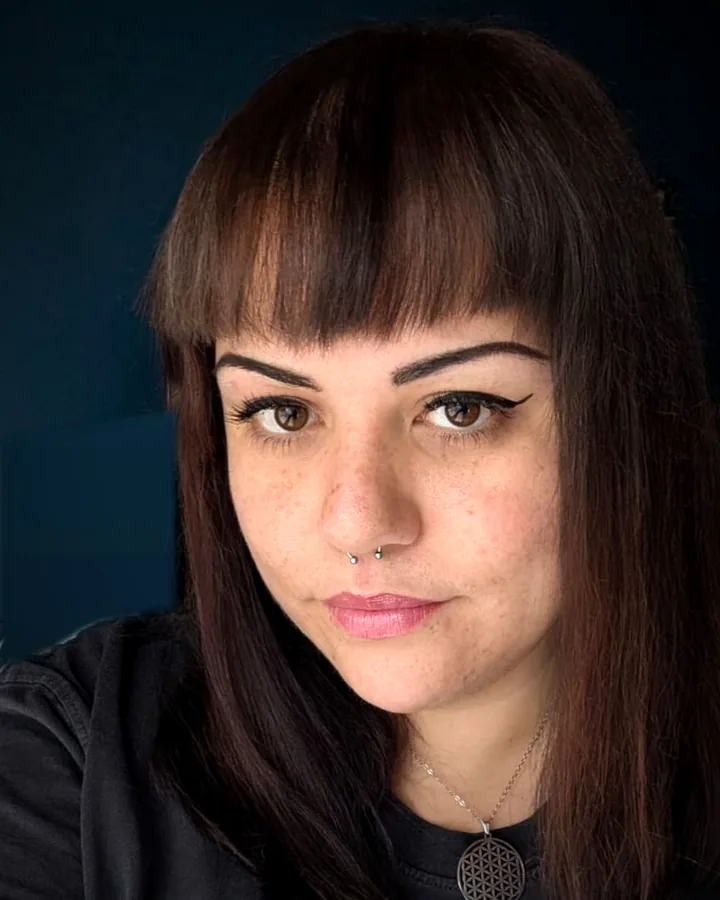
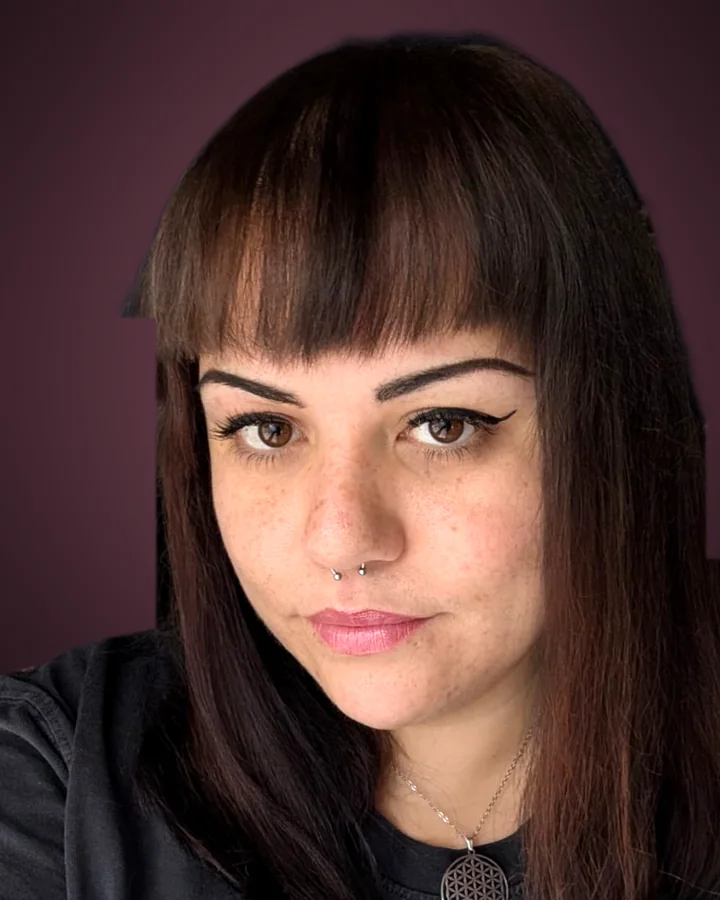
Portrait studio, plus de zone de déplacement, FAQ et textes retouchés
- Portrait détouré sur fond prune uni (bureau, box et écran retirés)
- Plus aucune mention de zone de déplacement ni de clients « partout » : « basée à Mulhouse, en Alsace » ;
  carte de l'Alsace sans trajets, pied de page et contact simplifiés
- « Bonjour » au lieu de « Salü » ; plus de « premier échange gratuit » ; accroche du hero retirée
- FAQ : « Si je refais mon site, est-ce que je vais perdre mes données ? » → non ; question « où » retirée
- Raison « Vous suivez l'avancement » à la place de « Basée à Mulhouse »

diff --git a/app/data/site.ts b/app/data/site.ts
@@ -123,8 +123,8 @@ export const reasons = [
     d: 'Le site, le nom de domaine et les contenus sont à vous. Et si vous voulez changer vos textes ou vos photos vous-même, je vous prévois un espace pour ça.',
   },
   {
-    t: 'Basée à Mulhouse',
-    d: 'Je me déplace en Alsace pour rencontrer mes clients. Pour ceux qui sont plus loin, en France ou ailleurs, on travaille en visio.',
+    t: 'Vous suivez l’avancement',
+    d: 'Je vous montre le site au fur et à mesure. Vous savez toujours où on en est, et vous pouvez réagir à chaque étape.',
   },
   {
     t: 'Je réponds vite',
@@ -133,7 +133,7 @@ export const reasons = [
 ]
 
 export const steps = [
-  { t: 'On se rencontre', d: 'On prend une demi-heure pour parler de votre activité et de ce que vous attendez. Chez vous si vous êtes en Alsace, sinon en visio. C’est gratuit.' },
+  { t: 'On se rencontre', d: 'On prend une demi-heure pour parler de votre activité et de ce que vous attendez. En rendez-vous ou en visio.' },
   { t: 'Je vous envoie une proposition', d: 'Avec le détail de ce que je vais faire, le délai et le prix. Si quelque chose ne vous convient pas, on en discute.' },
   { t: 'Je construis le site', d: 'Je vous montre l’avancement au fur et à mesure. Vous me dites ce qui vous plaît ou non, et j’ajuste.' },
   { t: 'Mise en ligne', d: 'Je mets le site en ligne et je vous montre comment vous en servir. Ensuite, je reste joignable.' },
@@ -144,11 +144,11 @@ export interface Faq { q: string, a: string }
 export const faq: Faq[] = [
   {
     q: 'Combien coûte un site internet ?',
-    a: 'Tout dépend du projet : un site vitrine de quelques pages n’a rien à voir avec une boutique en ligne. Après un premier échange gratuit, je vous envoie un devis détaillé : vous savez exactement ce que vous payez, et pourquoi.',
+    a: 'Tout dépend du projet : un site vitrine de quelques pages n’a rien à voir avec une boutique en ligne. Après un premier échange, je vous envoie une proposition détaillée : vous savez exactement ce que vous payez, et pourquoi.',
   },
   {
     q: 'Votre audit est-il vraiment gratuit ?',
-    a: 'Oui, et sans engagement. Que vous ayez un site, un logiciel ou pas encore de site, on fait le point et on vous remet un compte rendu clair avec les priorités. Vous en faites ce que vous voulez, avec moi ou sans moi.',
+    a: 'Oui, et sans engagement. Que vous ayez un site, un logiciel ou pas encore de site, on fait le point et on vous remet un compte rendu clair avec les priorités.',
   },
   {
     q: 'Combien de temps faut-il pour créer mon site ?',
@@ -163,12 +163,8 @@ export const faq: Faq[] = [
     a: 'Le référencement est pensé dès la conception : site rapide, adapté au téléphone, textes et titres travaillés, informations structurées pour Google. Pour une refonte, les anciennes adresses sont redirigées pour ne pas perdre vos positions.',
   },
   {
-    q: 'Je suis sur Wix ou Shopify, est-ce que je peux changer ?',
-    a: 'Oui. Je reprends vos contenus, je m’occupe du nom de domaine et des redirections pour garder votre référencement, et vous ne payez plus d’abonnement inutile.',
-  },
-  {
-    q: 'Vous travaillez avec qui, et où ?',
-    a: 'Avec des entreprises de partout : en Alsace, ailleurs en France et à l’étranger. Je suis basée à Mulhouse et, en Alsace, je me déplace volontiers pour parler de votre projet (Mulhouse, Colmar, Strasbourg, Guebwiller, Saint-Louis, Thann, Altkirch, Sélestat…). Partout ailleurs, tout se fait très bien à distance, en visio.',
+    q: 'Si je refais mon site, est-ce que je vais perdre mes données ?',
+    a: 'Non. Je récupère vos contenus (textes, photos, produits…) et je redirige les adresses de votre site actuel vers les nouvelles pages, pour que vous gardiez aussi votre place sur Google. Ça vaut aussi si vous êtes sur Wix ou Shopify.',
   },
   {
     q: 'Et une fois le site en ligne ?',
@@ -195,7 +191,7 @@ export const audit = {
     'Un compte rendu clair, sans jargon',
     'Les 3 à 5 priorités, classées par impact',
     'Ce que vous pouvez faire vous-même, tout de suite',
-    'Aucun engagement : vous en faites ce que vous voulez',
+    'Aucun engagement de votre part',
   ],
 }
 

diff --git a/app/pages/index.vue b/app/pages/index.vue
@@ -5,7 +5,7 @@ import portrait from '~/assets/img/portrait.webp'
 
 usePageSeo({
   title: 'Agence web freelance en Alsace | Alexandra Porhansl, Mulhouse',
-  description: 'Agence web freelance à Mulhouse : sites vitrines, boutiques en ligne, référencement (SEO) et refontes, en Alsace et à distance partout. Audit gratuit.',
+  description: 'Agence web freelance à Mulhouse, en Alsace : sites vitrines, boutiques en ligne, référencement (SEO), refontes et outils sur mesure. Audit gratuit.',
   path: '/',
 })
 
@@ -18,7 +18,6 @@ const ticker = ['Site vitrine', 'Boutique en ligne', 'Référencement naturel (S
     <!-- HERO -->
     <section class="hero wrap" aria-labelledby="hero-title">
       <div class="hero-txt">
-        <p class="eyebrow rise">Basée à Mulhouse · clients partout</p>
         <h1 id="hero-title" class="hero-h1 rise d1">
           Agence web<br>freelance <em>en&nbsp;Alsace.</em>
         </h1>
@@ -28,7 +27,6 @@ const ticker = ['Site vitrine', 'Boutique en ligne', 'Référencement naturel (S
         </p>
         <p class="hero-lead rise d2">
           Du premier échange à la mise en ligne, vous avez une seule interlocutrice&nbsp;: moi, Alexandra.
-          Je me déplace chez vous en Alsace, et je travaille à distance avec des clients partout ailleurs.
         </p>
         <div class="hero-ctas rise d3">
           <NuxtLink to="/audit-gratuit" class="btn">Audit gratuit <span class="arr" aria-hidden="true">→</span></NuxtLink>
@@ -36,7 +34,7 @@ const ticker = ['Site vitrine', 'Boutique en ligne', 'Référencement naturel (S
         </div>
         <ul class="hero-trust rise d4">
           <li>Audit offert</li>
-          <li>En Alsace et à distance</li>
+          <li>Basée à Mulhouse</li>
           <li>Réponse sous 24 h</li>
         </ul>
       </div>
@@ -148,12 +146,10 @@ const ticker = ['Site vitrine', 'Boutique en ligne', 'Référencement naturel (S
     <section class="section zone-sec" aria-labelledby="zone-title">
       <div class="wrap zone">
         <div class="zone-txt" data-reveal>
-          <p class="eyebrow">Où je travaille</p>
+          <p class="eyebrow">Où me trouver</p>
           <h2 id="zone-title" class="h2">Je suis basée à Mulhouse</h2>
           <p class="lead">
-            Je me déplace volontiers en Alsace pour rencontrer mes clients, de Saint-Louis à Haguenau, en passant
-            par Colmar et Strasbourg. Pour les clients plus loin, en France ou à l’étranger, on fait tout en visio,
-            et ça marche très bien.
+            Mon agence est installée à Mulhouse, dans le sud de l’Alsace, entre les Vosges et le Rhin.
           </p>
         </div>
         <div class="zone-map" data-reveal>
@@ -169,7 +165,7 @@ const ticker = ['Site vitrine', 'Boutique en ligne', 'Référencement naturel (S
       </div>
       <div class="about-txt" data-reveal>
         <p class="eyebrow">Qui suis-je</p>
-        <h2 id="about-title" class="h2">Salü, <em>moi c’est Alexandra.</em></h2>
+        <h2 id="about-title" class="h2">Bonjour, <em>moi c’est Alexandra.</em></h2>
         <p class="lead">
           Je crée des sites web depuis {{ new Date().getFullYear() - 2019 }} ans. Avant de lancer mon agence, j’ai travaillé
           en agence web, dans une startup et chez des éditeurs de logiciels, sur des sites, des boutiques en ligne

diff --git a/app/pages/contact/index.vue b/app/pages/contact/index.vue
@@ -3,7 +3,7 @@ import { business, zone } from '~/data/site'
 
 usePageSeo({
   title: 'Contact : parlons de votre projet | Alexandra Porhansl',
-  description: 'Un projet de site vitrine, de boutique en ligne ou de refonte ? Écrivez-moi : audit et premier échange gratuits, réponse sous 24 h. Agence web basée à Mulhouse.',
+  description: 'Un projet de site vitrine, de boutique en ligne ou de refonte ? Écrivez-moi : audit gratuit, réponse sous 24 h. Agence web basée à Mulhouse.',
   path: '/contact',
 })
 
@@ -26,8 +26,7 @@ const cities = [zone.home.name, ...zone.cities.map(c => c.name)].join(', ')
       <p class="eyebrow rise">Contact</p>
       <h1 class="c-h1 rise d1">Parlons de <em>votre projet.</em></h1>
       <p class="lead rise d2">
-        Dites-m’en un peu plus, même si votre idée tient encore sur un sous-bock. Je vous recontacte pour un
-        premier échange de 30 minutes, gratuit et sans engagement.
+        Dites-m’en un peu plus, même si votre idée tient encore sur un sous-bock. Je vous recontacte rapidement pour en parler.
       </p>
     </section>
 
@@ -47,15 +46,14 @@ const cities = [zone.home.name, ...zone.cities.map(c => c.name)].join(', ')
         </div>
         <div class="c-card">
           <p class="c-k">Où ?</p>
-          <p class="c-v">Chez vous en Alsace, en visio partout ailleurs.</p>
-          <p class="c-small">Basée à Mulhouse, je travaille avec des clients en France et à l’étranger.</p>
-          <p class="c-small">Je me déplace notamment à {{ cities }}…</p>
+          <p class="c-v">Mulhouse, en Alsace</p>
+          <p class="c-small">Rendez-vous ou visio, comme vous préférez.</p>
         </div>
         <div class="c-card c-next">
           <p class="c-k">Et ensuite ?</p>
           <ol>
             <li>Je vous rappelle ou je vous réponds par e-mail.</li>
-            <li>On échange 30 minutes sur votre besoin, chez vous ou en visio.</li>
+            <li>On échange une demi-heure sur votre besoin.</li>
             <li>Je vous envoie une proposition détaillée.</li>
           </ol>
         </div>

diff --git a/app/plugins/scroll.client.ts b/app/plugins/scroll.client.ts
@@ -8,7 +8,7 @@ import { serpentinePath } from '~/utils/serpentine'
  * - [data-reveal] : apparition en fondu/translation à l'entrée du viewport
  * - [data-depth] (hero) et [data-parallax] (réalisations) : léger décalage au défilement
  * - [data-count] : compteurs qui montent
- * - carte de la zone d'intervention : les trajets depuis Mulhouse se dessinent
+ * - carte de l'Alsace : Mulhouse puis les villes apparaissent
  * - [data-timeline] (Mon parcours) : la serpentine se dessine, un point la parcourt, les étapes s'allument
  * - prefers-reduced-motion : aucun mouvement, états finaux directs (la frise reste fonctionnelle)
  */
@@ -64,24 +64,12 @@ export default defineNuxtPlugin((nuxtApp) => {
       })
     })
 
-    // carte de la zone : trajets puis villes
+    // carte de la zone : Mulhouse puis les villes
     const map = document.querySelector('.zm')
     if (map) {
-      const routes = map.querySelectorAll<SVGLineElement>('.routes line')
-      routes.forEach((l) => {
-        const len = Math.hypot(
-          Number(l.getAttribute('x2')) - Number(l.getAttribute('x1')),
-          Number(l.getAttribute('y2')) - Number(l.getAttribute('y1')),
-        )
-        l.style.strokeDasharray = `${len}`
-        l.style.strokeDashoffset = `${len}`
-      })
       gsap.timeline({ scrollTrigger: { trigger: map, start: 'top 75%', once: true } })
         .fromTo(map.querySelector('.home'), { opacity: 0, scale: .6, transformOrigin: 'center' }, { opacity: 1, scale: 1, duration: .5, ease: 'back.out(2)' })
-        .to(routes, { strokeDashoffset: 0, duration: .9, ease: 'power2.inOut', stagger: .07 }, '-=.1')
-        .fromTo(map.querySelectorAll('.city'), { opacity: 0 }, { opacity: 1, duration: .4, stagger: .07 }, '-=.9')
-        // on rend les pointillés une fois dessinés
-        .set(routes, { strokeDasharray: '3 4', strokeDashoffset: 0 })
+        .fromTo(map.querySelectorAll('.city'), { opacity: 0, y: 6 }, { opacity: 1, y: 0, duration: .45, stagger: .07 }, '-=.1')
     }
   }
 

diff --git a/app/components/ZoneMap.vue b/app/components/ZoneMap.vue
@@ -2,7 +2,7 @@
 import { zone } from '~/data/site'
 
 const { home, cities } = zone
-const aria = `Carte de l’Alsace : depuis Mulhouse, je me déplace notamment à ${cities.map(c => c.name).join(', ')}`
+const aria = `Carte de l’Alsace avec Mulhouse et ${cities.map(c => c.name).join(', ')}`
 
 /* Le Rhin, de Bâle à Lauterbourg (mêmes coordonnées projetées que les villes) */
 const rhine = 'M 218 600 C 214 560, 205 520, 203 470 S 212 400, 215 387 S 228 320, 234 290 S 255 220, 268 189 S 300 140, 328 110 S 360 70, 371 49'
@@ -23,11 +23,6 @@ const rhine = 'M 218 600 C 214 560, 205 520, 203 470 S 212 400, 215 387 S 228 32
     <text class="geo river" x="283" y="246" transform="rotate(-56 283 246)">RHIN</text>
     <text class="geo" x="330" y="300">ALLEMAGNE</text>
     <text class="geo" x="244" y="610">SUISSE</text>
-
-    <!-- trajets depuis Mulhouse -->
-    <g class="routes">
-      <line v-for="c in cities" :key="c.name" :x1="home.x" :y1="home.y" :x2="c.x" :y2="c.y" />
-    </g>
 
     <g v-for="c in cities" :key="`c-${c.name}`" class="city">
       <circle :cx="c.x" :cy="c.y" r="4" />
@@ -54,7 +49,6 @@ const rhine = 'M 218 600 C 214 560, 205 520, 203 470 S 212 400, 215 387 S 228 32
 .wine-road { fill: none; stroke: #b7a06a; stroke-width: 2; stroke-dasharray: 1 5; stroke-linecap: round; }
 .geo.wine { fill: #8a7440; letter-spacing: .22em; }
 
-.routes line { stroke: var(--color-wine); stroke-width: 1.2; stroke-dasharray: 3 4; opacity: .55; }
 .city circle { fill: var(--color-paper); stroke: var(--color-ink); stroke-width: 1.5; }
 .c-name { font-family: var(--font-display); font-weight: 680; font-size: 13.5px; fill: var(--color-ink); }
 .c-time { font-family: var(--font-mono); font-size: 10.5px; fill: var(--color-wine); letter-spacing: .04em; }

diff --git a/app/components/SiteFooter.vue b/app/components/SiteFooter.vue
@@ -1,8 +1,7 @@
 <script setup lang="ts">
-import { business, services, zone } from '~/data/site'
+import { business, services } from '~/data/site'
 
 const year = new Date().getFullYear()
-const cities = [zone.home.name, ...zone.cities.map(c => c.name)]
 </script>
 
 <template>
@@ -12,9 +11,8 @@ const cities = [zone.home.name, ...zone.cities.map(c => c.name)]
         <div class="f-brand">
           <p class="f-name">Alexandra Porhansl<span>.</span></p>
           <p class="f-desc">
-            Agence web freelance basée à Mulhouse. Sites vitrines, boutiques en ligne et outils sur mesure
-            pour les entreprises d’Alsace et d’ailleurs : je me déplace chez vous en Alsace, et je travaille
-            à distance partout dans le monde.
+            Agence web freelance basée à Mulhouse, en Alsace. Sites vitrines, boutiques en ligne, référencement
+            et outils sur mesure.
           </p>
           <NuxtLink to="/contact" class="btn f-cta">Parlons de votre projet <span class="arr" aria-hidden="true">→</span></NuxtLink>
         </div>
@@ -34,10 +32,9 @@ const cities = [zone.home.name, ...zone.cities.map(c => c.name)]
         </nav>
 
         <div class="f-col">
-          <p class="f-h">Où je travaille</p>
+          <p class="f-h">Où me trouver</p>
           <p class="f-zone">
-            Création de sites internet et référencement à {{ cities.join(', ') }}, partout en Alsace,
-            et à distance en France comme à l’étranger.
+            Mulhouse, Haut-Rhin (68)<br>Alsace
           </p>
         </div>
       </div>

diff --git a/app/pages/audit-gratuit.vue b/app/pages/audit-gratuit.vue
@@ -3,7 +3,7 @@ import { audit } from '~/data/site'
 
 usePageSeo({
   title: 'Audit gratuit de site web et de référencement (SEO)',
-  description: 'Audit gratuit de votre site, de votre référencement Google ou de vos outils, en Alsace ou à distance. Pas encore de site ? On fait le point sur votre situation.',
+  description: 'Audit gratuit de votre site, de votre référencement Google ou de vos outils, par une agence web basée à Mulhouse. Pas encore de site ? On fait le point.',
   path: '/audit-gratuit',
 })
 
@@ -28,7 +28,7 @@ useJsonLd([
 const steps = [
   { t: 'Vous décrivez votre situation', d: 'Avec le formulaire ci-dessous : votre site s’il existe, vos outils, ce qui vous gêne.' },
   { t: 'On analyse', d: 'Votre site, votre visibilité sur Google, vos outils ou votre présence en ligne actuelle.' },
-  { t: 'On vous présente le compte rendu', d: 'Chez vous si vous êtes en Alsace, en visio partout ailleurs. Avec les priorités et les prochaines étapes.' },
+  { t: 'On vous présente le compte rendu', d: 'En rendez-vous ou en visio, avec les priorités et les prochaines étapes.' },
 ]
 </script>
 
@@ -43,7 +43,7 @@ const steps = [
       </p>
       <div class="a-ctas rise d3">
         <a href="#demande" class="btn">Audit gratuit <span class="arr" aria-hidden="true">↓</span></a>
-        <span class="a-note">Gratuit · sans engagement · en Alsace ou à distance</span>
+        <span class="a-note">Gratuit · sans engagement</span>
       </div>
     </section>
 

diff --git a/app/app.vue b/app/app.vue
@@ -17,7 +17,7 @@ useJsonLd({
       '@id': `${siteUrl}/#agence`,
       'name': 'Alexandra Porhansl — Agence web',
       'alternateName': 'Alexandra Porhansl',
-      'description': 'Agence web freelance basée à Mulhouse : création de sites vitrines, boutiques en ligne, référencement (SEO), refontes et outils sur mesure, en Alsace et à distance partout dans le monde. Audit gratuit.',
+      'description': 'Agence web freelance basée à Mulhouse : création de sites vitrines, boutiques en ligne, référencement (SEO), refontes et outils sur mesure, à Mulhouse en Alsace. Audit gratuit.',
       'url': `${siteUrl}/`,
       'email': business.email,
       'image': `${siteUrl}/og/og.jpg`,

diff --git a/app/pages/services.vue b/app/pages/services.vue
@@ -32,7 +32,7 @@ const list = services.map(s => ({ ...s, ref: s.project ? findProject(s.project) 
       <h1 class="s-h1 rise d1">Création de sites internet <em>et référencement</em></h1>
       <p class="lead rise d2">
         Sites vitrines, boutiques en ligne, référencement, refontes et outils sur mesure : voici ce que je fais,
-        et comment ça se passe. Pour des entreprises en Alsace, ailleurs en France ou à l’étranger.
+        et comment ça se passe.
       </p>
       <nav class="s-toc rise d3" aria-label="Services">
         <a v-for="(s, i) in services" :key="s.id" :href="`#${s.id}`">

diff --git a/app/components/CtaBand.vue b/app/components/CtaBand.vue
@@ -1,7 +1,7 @@
 <script setup lang="ts">
 withDefaults(defineProps<{ title?: string, text?: string }>(), {
   title: 'Un projet de site ? Hopla, on en parle !',
-  text: 'Racontez-moi ce que vous avez en tête. On peut se voir si vous êtes en Alsace, ou s’appeler en visio. Le premier échange est gratuit.',
+  text: 'Racontez-moi ce que vous avez en tête : un nouveau site, une refonte, un outil… On en discute, et je vous dis ce que je peux faire pour vous.',
 })
 </script>
 

diff --git a/CLAUDE.md b/CLAUDE.md
@@ -16,10 +16,12 @@ et servies par Cloudflare Workers ; seul `/api/contact` tourne dans le Worker.
 - **Côté clients, zéro jargon** (accueil, services, réalisations, contact). Le vocabulaire technique n'a sa place que sur `/parcours`.
 - **Pas de tarifs affichés** tant qu'Alexandra ne les a pas validés. Seule exception : l'**audit gratuit** (`/audit-gratuit`),
   à mettre en avant (accueil, menu, bandeau final, formulaire) — pour un site, un logiciel / des outils, ou sans site.
-- Positionnement : **agence web freelance basée en Alsace (Mulhouse), clients partout** : déplacement chez le client en Alsace,
-  à distance (visio) en France et à l'étranger. Ne jamais laisser croire « Alsace uniquement ».
+- Positionnement : **agence web freelance basée à Mulhouse, en Alsace**. Ne rien dire sur la zone de déplacement
+  ni sur des clients « partout » (ni « Alsace uniquement », ni « monde entier »).
   Une seule interlocutrice, sur mesure, référencement (SEO) pensé dès le départ — le SEO est aussi un service à part entière.
-- Petits clins d'œil alsaciens bienvenus (Hopla, Salü, Merci vielmols, bretzel, sous-bock, Vosges / Rhin, Route des vins), avec parcimonie.
+- Pas de « premier échange gratuit » : seul l'audit est gratuit. Pas de « Demander un devis » : « Parlons de votre projet ».
+- Ton naturel, à la première personne, sans slogans en deux temps ni formules toutes faites (« zéro jargon », « X, pas Y »…).
+- Petits clins d'œil alsaciens bienvenus (Hopla, Merci vielmols, bretzel, sous-bock, Vosges / Rhin, Route des vins), avec parcimonie.
 - **Aucune référence aux clients dans la FAQ** (les réalisations ont leurs propres pages).
 - Textes de l'audit gratuit à la 1re personne du pluriel : « on » (« on fait le point »), boutons « Audit gratuit ».
 - MemoryLine n'est pas alsacienne : pas de mention de l'Alsace pour elle. La Chance (Guebwiller) l'est.
@@ -28,7 +30,7 @@ et servies par Cloudflare Workers ; seul `/api/contact` tourne dans le Worker.
 - Typo : Archivo variable (titres `font-stretch` 110–118 %, graisse 700–800) + JB Mono pour les méta. Fontes self-hostées
   dans `public/fonts/` (préchargées), ne pas ajouter de CDN.
 - Animations : GSAP ScrollTrigger + Lenis via `app/plugins/scroll.client.ts` (`[data-reveal]`, `[data-depth]`, `[data-parallax]`,
-  `[data-count]`, carte de zone, frise en serpentine du parcours — tracé dans `app/utils/serpentine.ts`).
+  `[data-count]`, carte de l'Alsace, frise en serpentine du parcours — tracé dans `app/utils/serpentine.ts`).
   Respecter `prefers-reduced-motion` pour toute nouvelle animation.
 - Le téléphone d'Alexandra n'apparaît jamais sur le site.
 - Page Parcours : « développeuse full-stack salariée » dans l'intro ; Infosat n'apparaît que dans la frise. Pas de chiffres-clés en tête de page.
